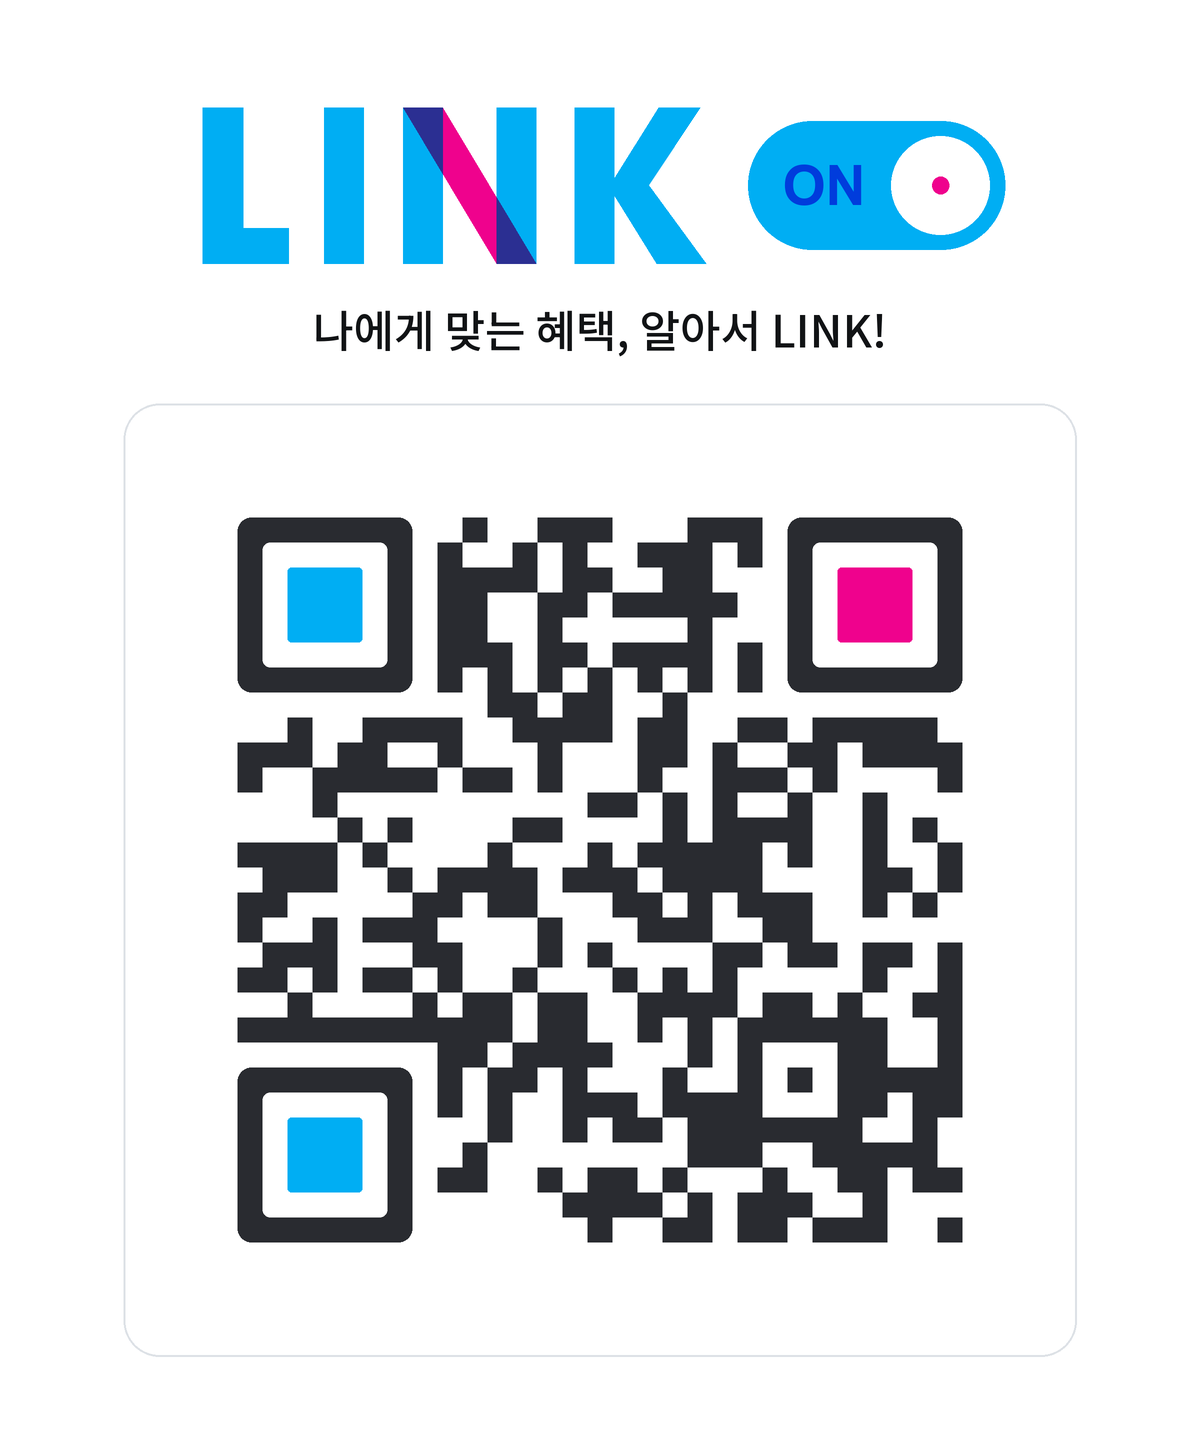
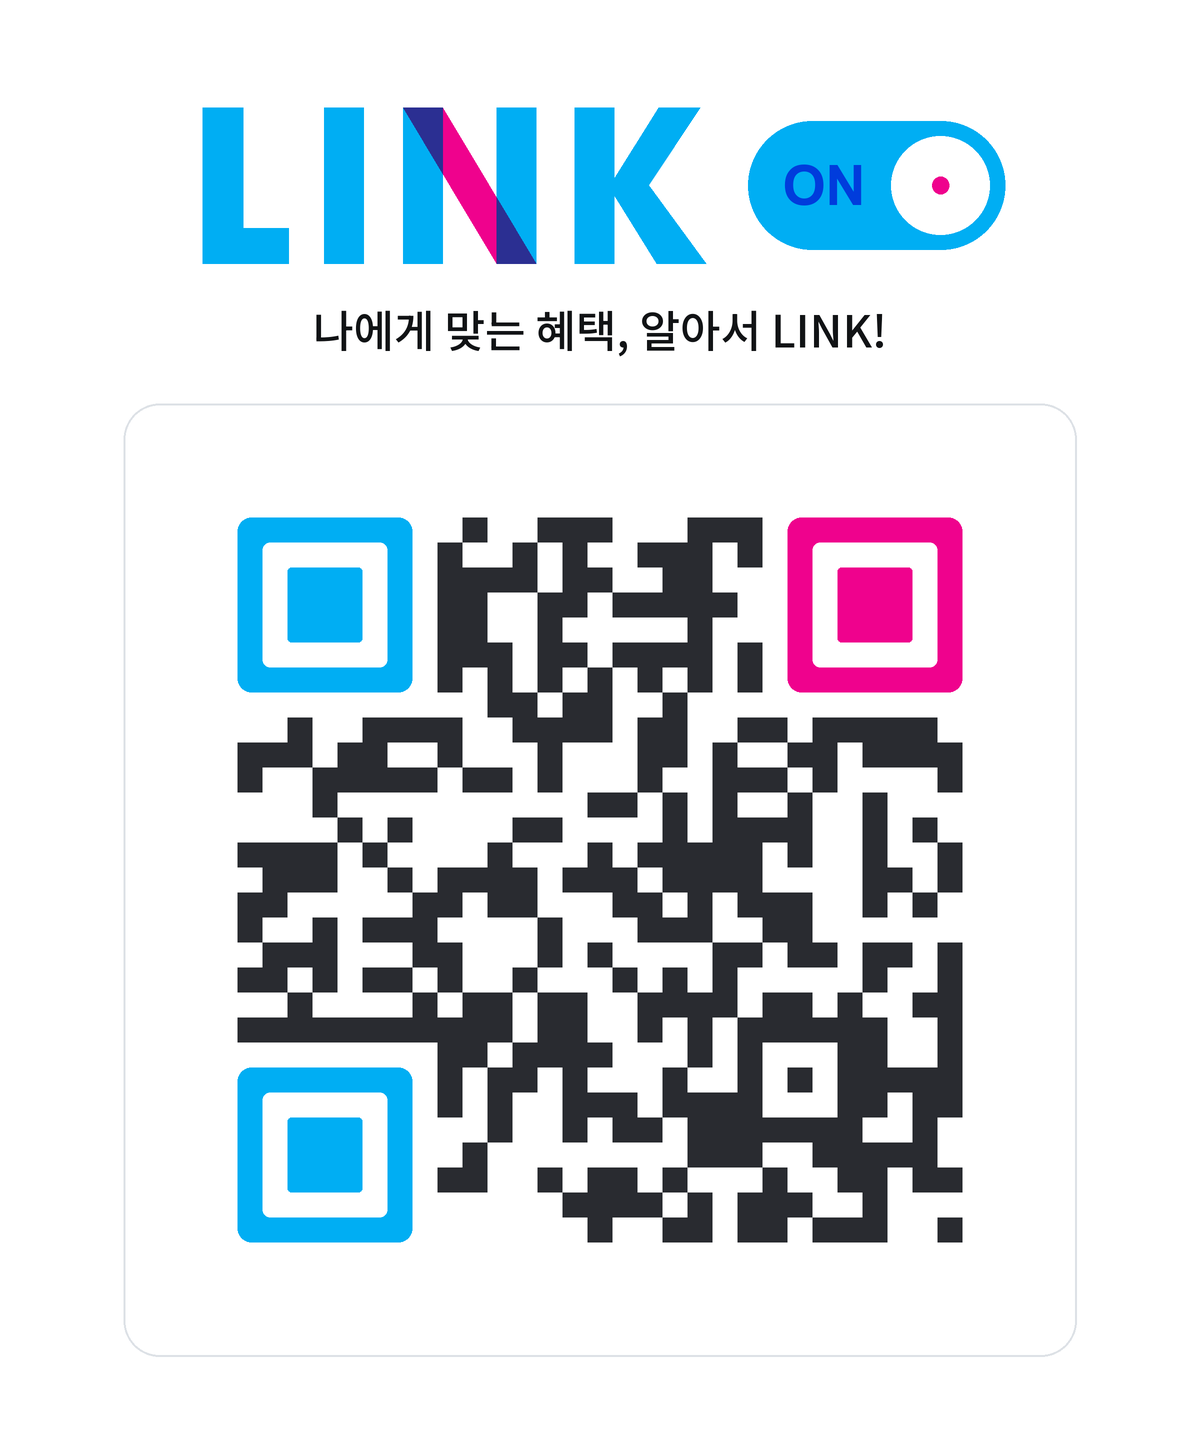
design: restore matching cyan and pink QR finder rings

Changed region(s): [[0.185, 0.7188, 0.37, 0.875], [0.185, 0.3438, 0.37, 0.5], [0.6475, 0.3438, 0.8017, 0.5]]

diff --git a/scripts/create-qr.py b/scripts/create-qr.py
@@ -41,7 +41,6 @@ m=qr.get_matrix();n=len(m);unit=25;startx=(W-n*unit)/2;starty=880-n*unit/2
 ink='#292B30'
 cyan='#00AEF3'
 pink='#EF028D'
-finder_ring=ink
 
 # Keep the full four-module quiet zone inside the fine neutral frame.
 pad=14
@@ -60,7 +59,7 @@ for row,line in enumerate(m):
 for row,col in finders:
  x,y=(startx+col*unit)*S,(starty+row*unit)*S
  accent=pink if (row,col)==(4,n-11) else cyan
- for inset,fill,radius in ((0,finder_ring,.55),(1,'white',.3),(2,accent,.15)):
+ for inset,fill,radius in ((0,accent,.55),(1,'white',.3),(2,accent,.15)):
   d.rounded_rectangle((x+inset*unit*S,y+inset*unit*S,
                        x+(7-inset)*unit*S-1,y+(7-inset)*unit*S-1),
                       radius=radius*unit*S,fill=fill)

diff --git a/CHANGELOG.md b/CHANGELOG.md
@@ -2,7 +2,7 @@
 
 ## QR 컬러 정리 — 2026-10-30
 
-- QR 본문과 세 인식 사각형의 바깥 고리를 같은 진한 회색으로 정리했습니다. 안쪽 네모는 왼쪽 두 개가 하늘색, 오른쪽 위가 핑크색입니다.
+- QR 본문은 진한 회색으로 유지하고, 인식 사각형의 바깥 고리와 안쪽 네모는 같은 색으로 맞췄습니다. 왼쪽 두 개는 하늘색, 오른쪽 위는 핑크색입니다.
 - 로고·소개·크기·배치·회색 테두리는 유지했습니다. 1200·600·300px 컬러·흑백 이미지의 QR 인식을 확인했습니다.
 
 ## QR 교차 컬러 적용 — 2026-10-30
